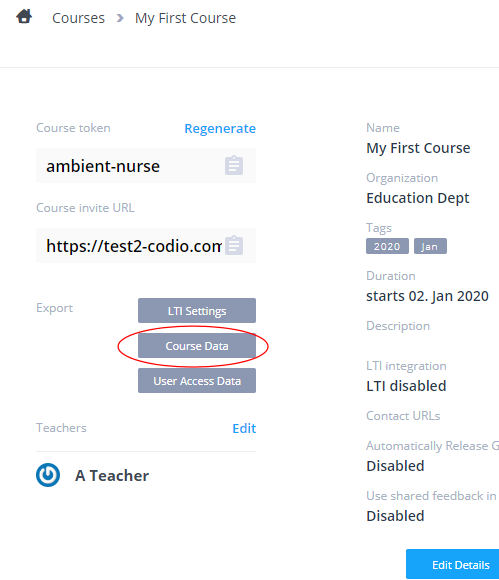
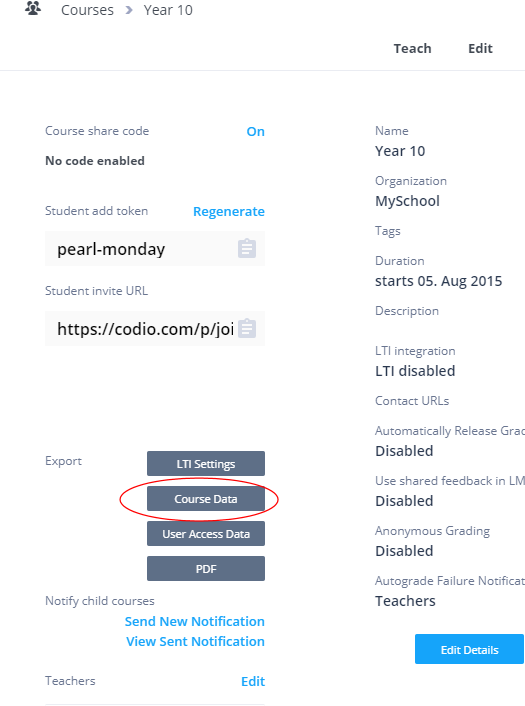
12marupdate (#86)
* update image

* changelog #12395

diff --git a/docs/courses/authoring.md b/docs/courses/authoring.md
@@ -11,6 +11,7 @@ Codio Guides is a powerful authoring tool creating rich tutorial and instruction
 - [Launch commands](/courses/authoring/#openclose-tabs-from-content) from the content page and pipe terminal output into the content page
 - Create manually and automatically graded [questions and assessments](/courses/assessments/)
 - Manage a [table of contents](/courses/authoring/)
+- Teachers/Instructors can obtain [PDF](/courses/classes/#pdf) export of the guides content to distribute to students as required
 
 ### Where is it?
 You can launch the content authoring from
@@ -998,4 +999,6 @@ Click here :[Stack Exchange](https://math.meta.stackexchange.com/questions/5020/
 ![Detextify](/img/detextify.png)
 
 **Important:** you should not use commands that are not in the standard package. In the image above, you can see the last one has a \usepackage command. Symbols in a special package may not work.
+
+
 

diff --git a/docs/courses/classes.md b/docs/courses/classes.md
@@ -1,4 +1,3 @@
-https://github.com/codio/codio-docs/pull/85---
 title: Understanding Courses
 
 ---
@@ -346,6 +345,16 @@ Use this to download a CSV of user access to assignments in the course. Details 
 ![course Export](/img/user_access_export.png)
 
 Collection and storage of this data will be retained for maximum of 6 months.
+
+### PDF
+
+![PDF export](/img/pdf_export.png)
+
+Use this to obtain PDF versions of the guides content in your assignments. When selected, a dialog shows allowing you to select the assignments to obtain the PDF version
+
+- All the data from the selected assignments will be compiled into a zip file in the background and when ready an email will be sent to you with a link for you to download.
+
+- The link will be active for 7 days and after this time the zip file will be removed.
 
 ### Autograde Notification Failure
 

diff --git a/docs/resources/changelog.md b/docs/resources/changelog.md
@@ -13,6 +13,8 @@ We do not report small bug fixes or issues that affect individual users, who we 
 
 **March 2021**
 
+- `[I] [12th]`: Add feature for teachers to obtain [PDF](/courses/classes/#pdf) export of guides content for course assignments 
+- `[I] [11th]`: Update Teacher Dashboard view separating 'Assignments' to 'Teach' & 'Edit' tabs
 - `[I] [ 5th]`: Add filter tag to allow search by name in [Assessment Library](/courses/assessments-library/#using-the-global-assessments-library)
 - `[I] [ 4th]`: Restrict students from signing up by token or invite URL where course is LTI enabled. See [Adding students to a course](/courses/classes/#add-students-to-a-course) for more information
 - `[I] [ 4th]`: Increase limit allowed on uploading files
